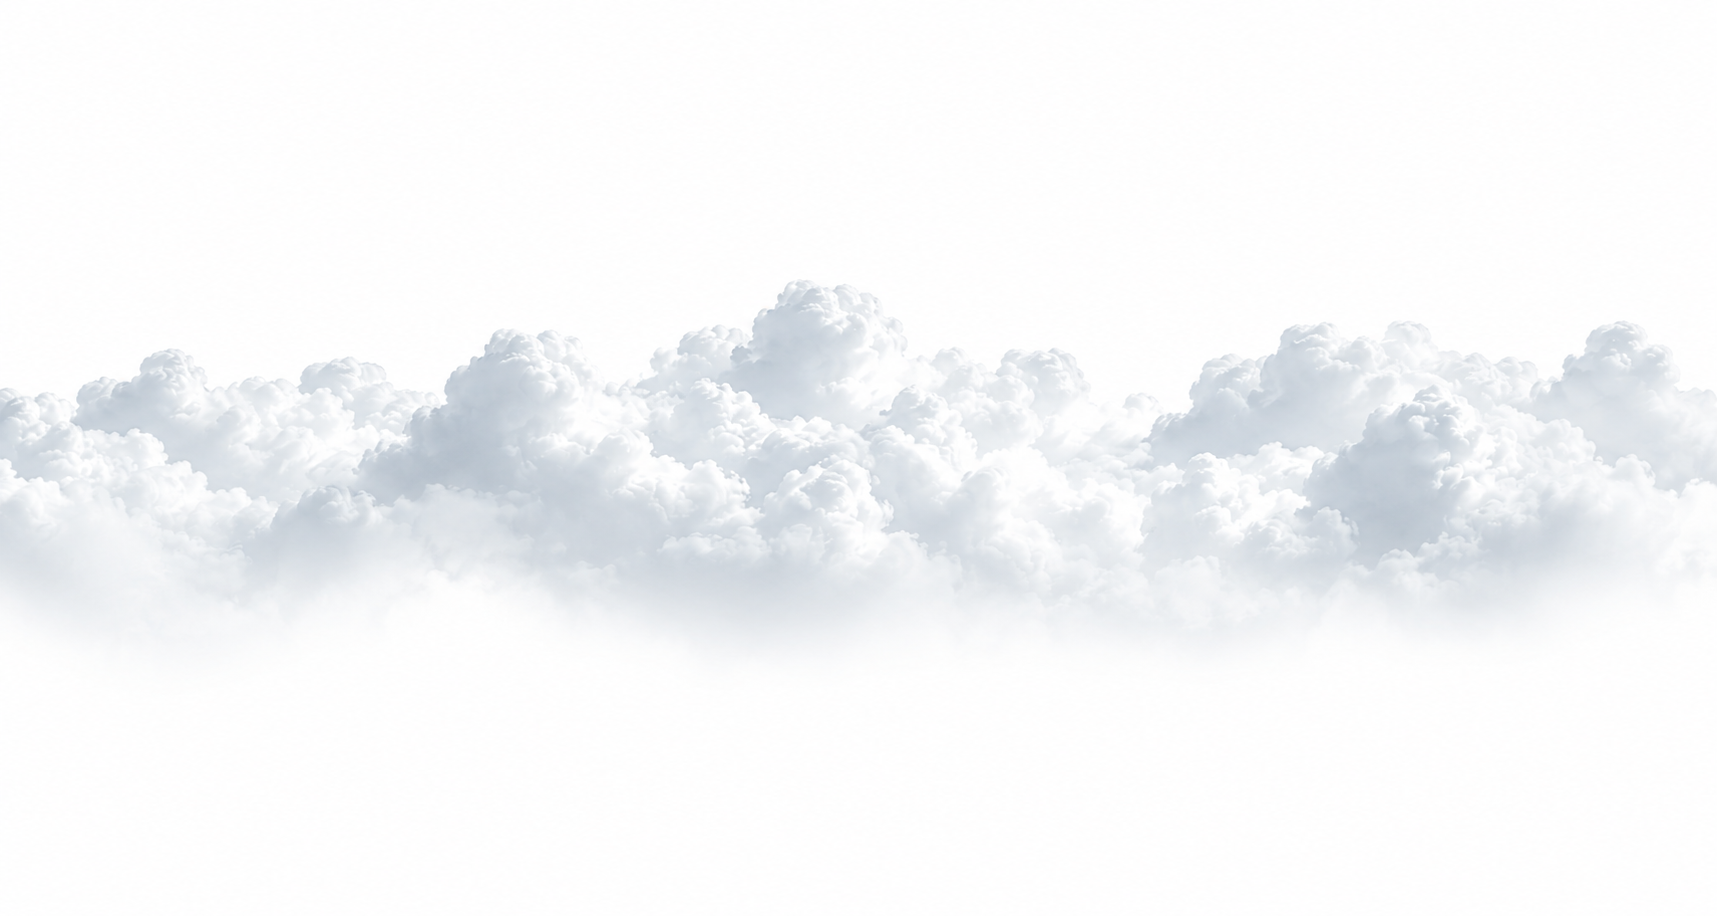
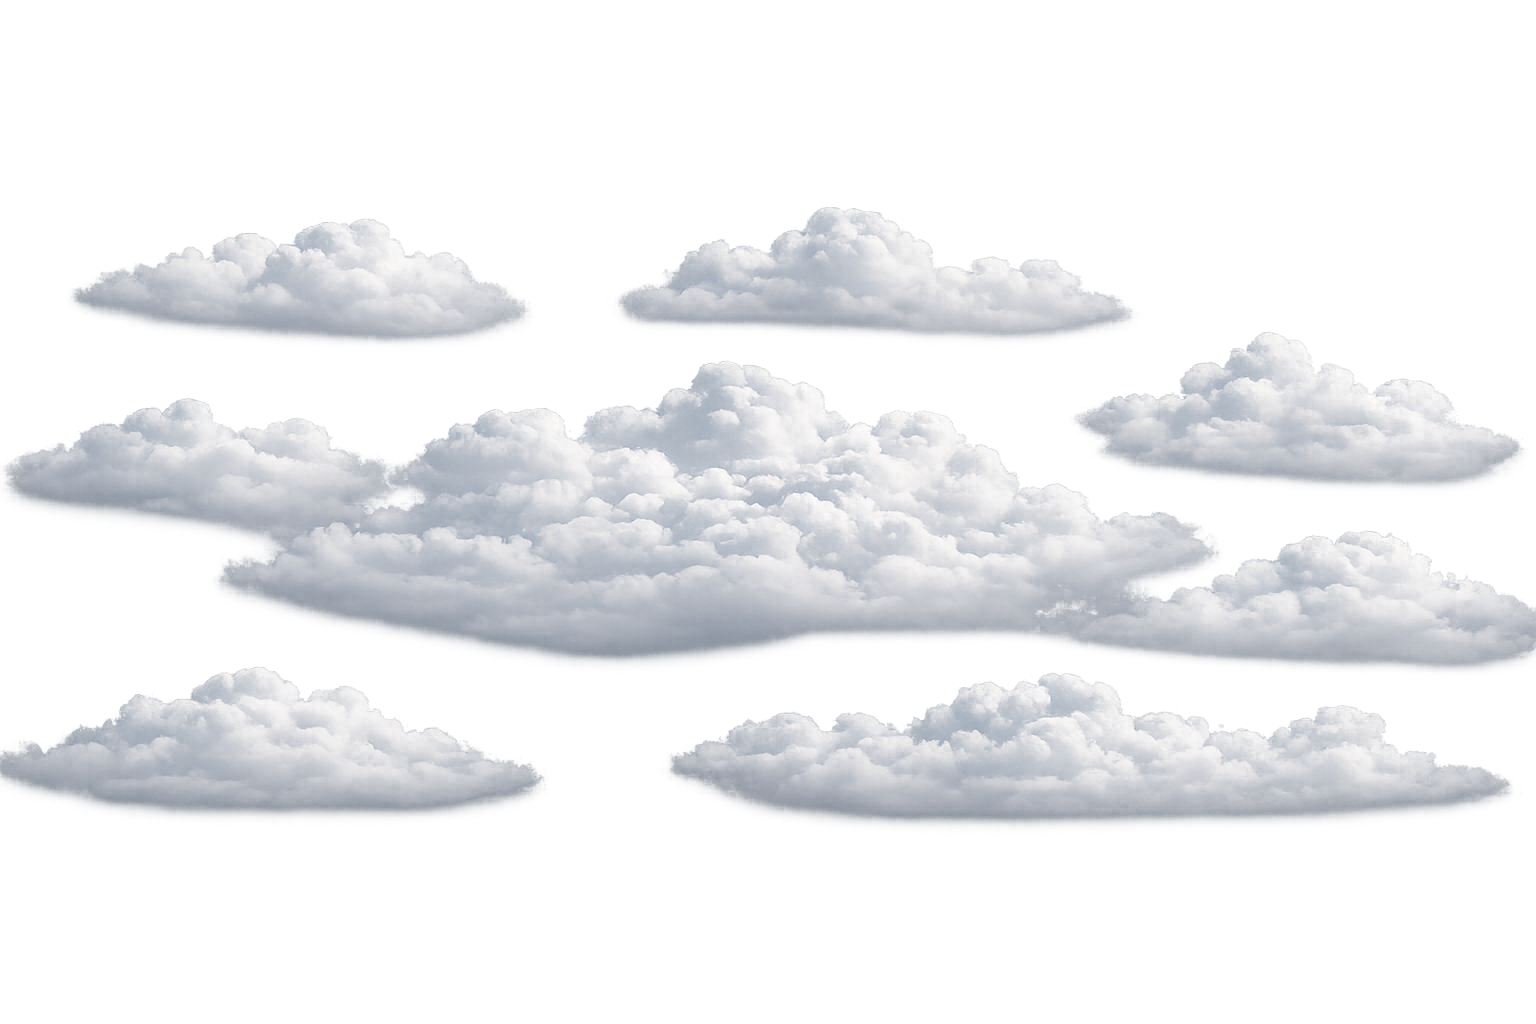
updated text

Changed region(s): [[0.0, 0.1834, 1.0, 0.8253], [0.0312, 0.214, 0.3438, 0.3362]]

diff --git a/src/components/journey/Environment.tsx b/src/components/journey/Environment.tsx
@@ -99,7 +99,7 @@ export function Environment() {
         progress={progress}
         range={[0.08, 0.16, 0.28, 0.42]}
         yRange={["6%", "0%", "-3%", "-10%"] as unknown as number[]}
-        opacityRange={[0, 0.95, 0.7, 0]}
+        opacityRange={[0, 0.40, 0.7, 0]}
         pointerFactor={10}
         className="opacity-90"
       />
